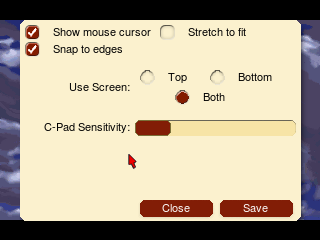
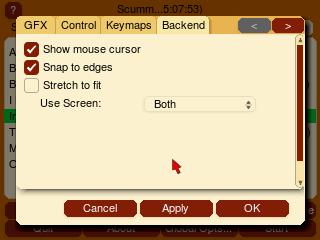
3DS: Update the documentation to reflect the options changes

diff --git a/doc/docportal/other_platforms/nintendo_3ds.rst b/doc/docportal/other_platforms/nintendo_3ds.rst
@@ -58,13 +58,13 @@ Controls can also be manually configured in the :doc:`Keymaps tab <../settings/k
     R + Circle Pad,Slow Mouse
     Ⓐ,Left mouse button
     Ⓑ,Right mouse button
-    Ⓧ,Opens the virtual keyboard
-    Ⓨ,ESC
+    Ⓧ,Period (.)
+    Ⓨ,Escape
     Control Pad,Keypad cursor keys
     L Button,Toggles magnify mode on/off
     R Button,Toggles between hover/drag modes
     START,Opens global main menu
-    SELECT,Opens 3DS config menu
+    SELECT,Opens the virtual keyboard
 
 .. _hover:
 
@@ -88,7 +88,7 @@ When activating magnify mode, touchscreen controls are automatically switched to
 
 Magnify mode can only be used when the following conditions are met:
 
-- In the 3DS config menu, the **Use Screen** option is set to **Both**.
+- In the Backend tab in the options dialog, the **Use Screen** option is set to **Both**.
 - The horizontal and/or vertical in-game resolution is greater than that of the top screen.
 - You're playing a game.
 
@@ -113,12 +113,12 @@ Settings
 
 For more information about Settings, see the Settings section of the documentation. Only platform-specific differences are listed here.
 
-The 3DS config menu
-*********************
+Backend-specific options
+**************************
 
 .. figure:: ../images/3ds/config.png
 
-    The 3DS config menu.
+    These options are specific to the 3DS port, and can be set in the :doc:`Backend tab <../settings/backend>`.
 
 Show mouse cursor
     Toggles a visible mouse cursor on/off.
@@ -131,9 +131,6 @@ Snap to edges
 
 Use Screen:
     Sets whether ScummVM uses the **Top**, **Bottom** or **Both** screens.
-
-C-Pad Sensitivity
-    Sets the sensitivity of the Circle Pad.
 
 Audio
 ******

diff --git a/backends/platform/3ds/README.md b/backends/platform/3ds/README.md
@@ -66,12 +66,12 @@ The default keymap is:
 |------------|--------------------------------|
 | A          | Left-click                     |
 | B          | Right-click                    |
+| X          | . (skips the current line)     |
 | Y          | ESC (skips cutscenes and such) |
-| X          | Use virtual keyboard           |
 | L          | Toggle magnify mode on/off     |
 | R          | Toggle hover/drag modes        |
 | Start      | Open global main menu          |
-| Select     | Open 3DS config menu           |
+| Select     | Use virtual keyboard           |
 | Circle Pad | Move the cursor                |
 
 2.2) Hover mode
@@ -104,7 +104,7 @@ be reactivated upon exiting magnify mode), as well as restore the top screen's p
 scale factor.
 
 Currently magnify mode can only be used when the following conditions are met:
- - In the 3DS config menu, "Use Screen" is set to "Both"
+ - In the Backend tab in the options dialog, "Use Screen" is set to "Both"
  - A game is currently being played
  - The horizontal and/or vertical resolution in-game is greater than that of the top screen
 
